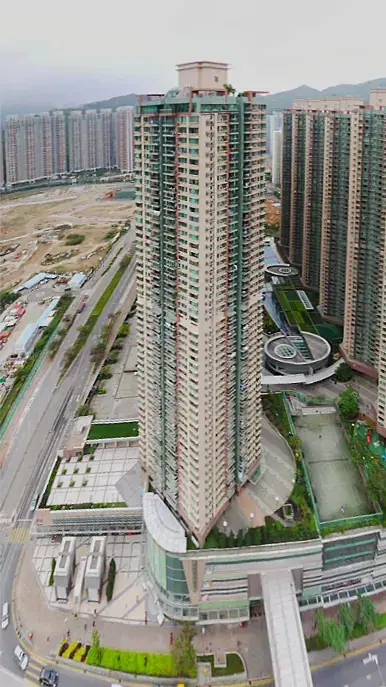
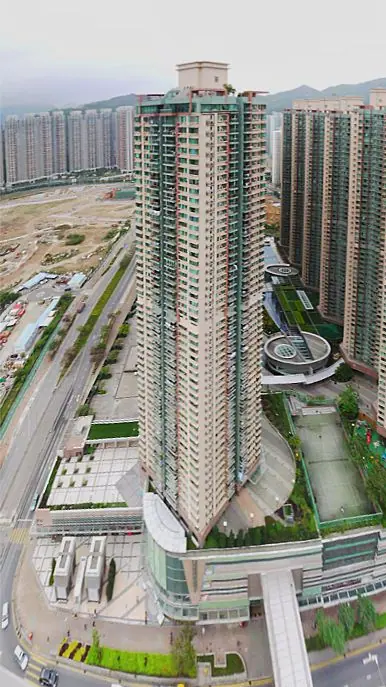
Regrade estate photos with eight more high-resolution originals
Assisted-by: Cindy (https://cindy.app)

diff --git a/src/photo-full.ts b/src/photo-full.ts
@@ -1,3 +1,3 @@
 /** Generated by scripts/grade-photos.mjs: graded full-screen crops in public/img/hk/full. */
 export const FULL_PHOTOS = new Set(["aberdeen","amoy-gardens","aquamarine","caribbean-coast","chi-fu","city-garden","city-one","fanling","festival-city","harbour-night","hk-island","island-harbourview","islands","kingswood","kornhill","kowloon","laguna-city","lei-king-wan","mei-foo","mid-levels","new-territories","ocean-pride","park-island","parkview","repulse","residence-oasis","riviera-gardens","sheung-shui","south-horizons","tai-po","taikoo-shing","telford","tuen-mun","villa-esplanada","whampoa","yoho-town"]);
-export const FULL_LARGE = new Set(["caribbean-coast","chi-fu","harbour-night","hk-island","island-harbourview","islands","kowloon","mei-foo","mid-levels","new-territories","ocean-pride","park-island","tai-po","taikoo-shing"]);
+export const FULL_LARGE = new Set(["aberdeen","caribbean-coast","chi-fu","harbour-night","hk-island","island-harbourview","islands","kowloon","mei-foo","mid-levels","new-territories","ocean-pride","park-island","parkview","residence-oasis","sheung-shui","tai-po","taikoo-shing"]);
